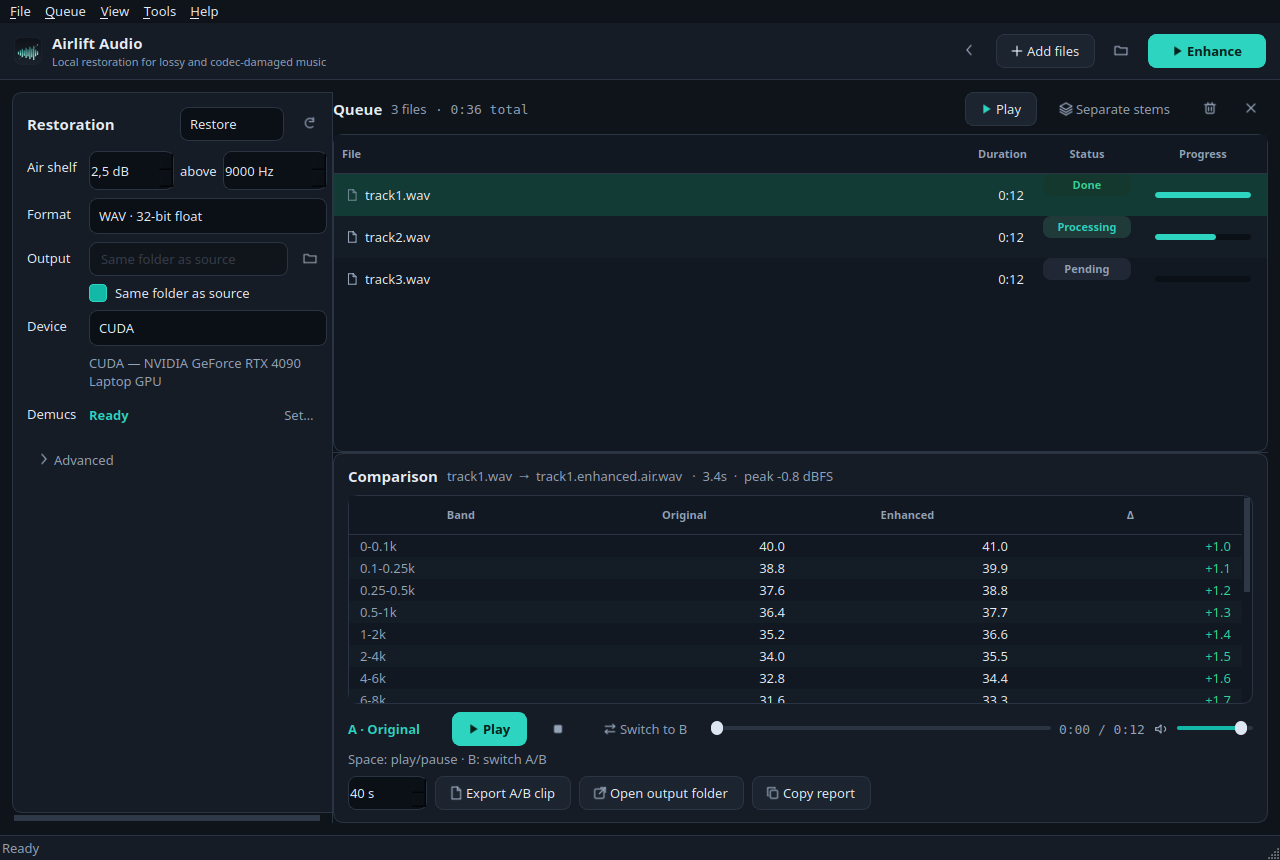
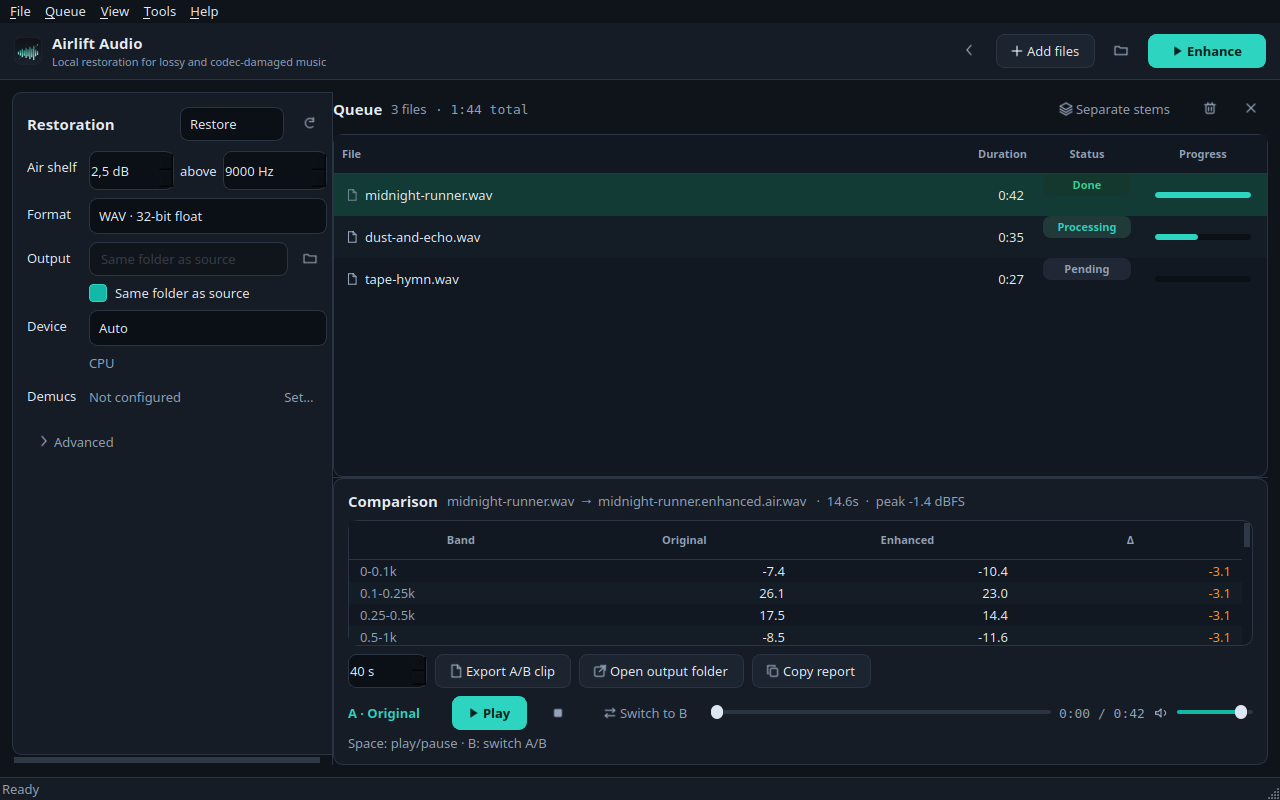
refactor: one always-visible transport, rendered README screenshots
The ABPlayer now lives outside the detail stack, so selecting a pending row
keeps play/pause, stop, the seek bar and volume on screen instead of hiding
the whole transport behind the empty state. The queue-header Play button is
removed: Space, the row context menu and Queue -> Play all drive that single
player, so there is one play button and one seek bar for every file.

docs/screenshot.png is regenerated and docs/screenshot-transport.png added
with scripts/make_screenshots.py, which renders MainWindow headless (Qt
offscreen platform) from synthetic queue data and loads no model weights.

diff --git a/airlift/ui/main_window.py b/airlift/ui/main_window.py
@@ -455,12 +455,6 @@ class MainWindow(QMainWindow):
         header.addWidget(self.duration_label)
         header.addStretch(1)
 
-        self.play_btn = QPushButton("Play")
-        self.play_btn.setIcon(icon("play", ACCENT))
-        self.play_btn.setToolTip("Play / pause the selected file")
-        self.play_btn.clicked.connect(self.toggle_play_selected)
-        header.addWidget(self.play_btn)
-
         self.separate_btn = QPushButton("Separate stems")
         self.separate_btn.setProperty("variant", "ghost")
         self.separate_btn.setIcon(icon("layers"))
@@ -579,7 +573,7 @@ class MainWindow(QMainWindow):
         layout.addLayout(header)
 
         self.detail_stack = QStackedWidget()
-        empty = QLabel("Select a finished file to inspect its bands.")
+        empty = QLabel("Select any file to preview; finished files also show band details.")
         empty.setProperty("role", "muted")
         empty.setAlignment(Qt.AlignCenter)
         self.detail_stack.addWidget(empty)
@@ -609,12 +603,6 @@ class MainWindow(QMainWindow):
             item.setForeground(QColor(MUTED))
             self.band_table.setItem(row, 0, item)
         content_layout.addWidget(self.band_table, 1)
-
-        self.player = ABPlayer()
-        self.player.playing_changed.connect(self._on_playing_changed)
-        self.player.stopped.connect(self._on_player_stopped)
-        self.player.source_changed.connect(self._on_player_source_changed)
-        content_layout.addWidget(self.player)
 
         buttons = QHBoxLayout()
         buttons.setSpacing(8)
@@ -648,6 +636,14 @@ class MainWindow(QMainWindow):
         self.detail_stack.addWidget(content)
         self.detail_stack.setCurrentIndex(0)
         layout.addWidget(self.detail_stack, 1)
+
+        # One transport for every file: keep it outside the detail stack so
+        # previewing a pending item still exposes play/pause, seek and volume.
+        self.player = ABPlayer()
+        self.player.playing_changed.connect(self._on_playing_changed)
+        self.player.stopped.connect(self._on_player_stopped)
+        self.player.source_changed.connect(self._on_player_source_changed)
+        layout.addWidget(self.player)
         return panel
 
     def _build_menu(self) -> None:
@@ -1035,7 +1031,7 @@ class MainWindow(QMainWindow):
         self.duration_label.setText(f"· {_fmt_duration(total)} total" if total else "")
         self.queue_stack.setCurrentWidget(self.table if count else self.empty_state)
         self._sync_actions()
-        self._update_play_button()
+        self._update_play_action()
 
     def _sync_actions(self) -> None:
         has_jobs = bool(self.jobs)
@@ -1070,14 +1066,13 @@ class MainWindow(QMainWindow):
         self.enhance_btn.setEnabled(enabled)
         self.cancel_btn.setVisible(running)
         self.cancel_btn.setEnabled(running)
-        self.play_btn.setEnabled(has_current and MULTIMEDIA)
         self.separate_btn.setEnabled(enabled)
         self.remove_btn.setEnabled(enabled)
         self.clear_btn.setEnabled(enabled)
         self.settings_panel.setEnabled(not running)
         self.reset_btn.setEnabled(not running)
 
-    def _update_play_button(self) -> None:
+    def _update_play_action(self) -> None:
         row = self.table.currentRow()
         has_current = 0 <= row < len(self.jobs)
         current_key = str(self.jobs[row]) if has_current else None
@@ -1085,10 +1080,6 @@ class MainWindow(QMainWindow):
             current_key
             and current_key == self._playing_path
             and self.player.is_playing()
-        )
-        self.play_btn.setText("Pause" if playing else "Play")
-        self.play_btn.setIcon(
-            icon("pause", ACCENT) if playing else icon("play", ACCENT)
         )
         self.act_play.setText("Pause selected" if playing else "Play / pause selected")
 
@@ -1173,21 +1164,17 @@ class MainWindow(QMainWindow):
 
         if key == self._playing_path:
             self.player.toggle_play()
-            self._update_play_button()
+            self._update_play_action()
             return
 
         if self.player.is_playing() or self.player.has_media():
             self.player.stop()
         self._playing_path = key
         self._set_playing_row(row)
-        result = self.results.get(key)
-        if result is not None:
-            self._show_detail(row)
-        else:
-            self.player.set_sources(path, None)
+        self._show_detail(row)
         self.player.play()
         self._update_playback_status()
-        self._update_play_button()
+        self._update_play_action()
 
     def stop_playback(self) -> None:
         self.player.stop()
@@ -1198,7 +1185,7 @@ class MainWindow(QMainWindow):
             if 0 <= row < len(self.jobs):
                 self._playing_path = str(self.jobs[row])
                 self._set_playing_row(row)
-        self._update_play_button()
+        self._update_play_action()
         if self.player.is_playing():
             self._update_playback_status()
         elif (
@@ -1216,7 +1203,7 @@ class MainWindow(QMainWindow):
         self._playing_path = None
         if not self._running:
             self.status_label.setText("Ready")
-        self._update_play_button()
+        self._update_play_action()
 
     def _on_player_source_changed(self, _source: str) -> None:
         if self._playing_path:
@@ -1234,7 +1221,7 @@ class MainWindow(QMainWindow):
             self._show_detail(row)
         else:
             self._clear_detail()
-        self._update_play_button()
+        self._update_play_action()
         self._sync_actions()
 
     def remove_selected(self) -> None:

diff --git a/scripts/make_screenshots.py b/scripts/make_screenshots.py
@@ -1,0 +1,168 @@
+#!/usr/bin/env python3
+"""Render the README screenshots headlessly with deterministic demo data.
+
+    python scripts/make_screenshots.py [--out docs]
+
+Qt runs on its offscreen platform, so no display is needed. Queue rows, band
+levels and peaks are synthesized — nothing here loads the Apollo model.
+"""
+
+from __future__ import annotations
+
+import argparse
+import os
+import tempfile
+from pathlib import Path
+
+import numpy as np
+
+ROOT = Path(__file__).resolve().parent.parent
+FILES = {
+    "midnight-runner.wav": 42.0,
+    "dust-and-echo.wav": 35.0,
+    "tape-hymn.wav": 27.0,
+}
+
+
+def _demo_audio(seconds: float, seed: int, *, restored: bool) -> np.ndarray:
+    """A harmonic tone cluster with a lossy top end; `restored` brings it back."""
+    from airlift.core.audio import SAMPLE_RATE, apply_shelf
+
+    rng = np.random.default_rng(seed)
+    n = int(seconds * SAMPLE_RATE)
+    t = np.arange(n) / SAMPLE_RATE
+    mono = np.zeros(n, dtype=np.float64)
+    for harmonic, gain in enumerate((0.22, 0.13, 0.08, 0.05), start=1):
+        mono += gain * np.sin(2 * np.pi * 110.0 * harmonic * t + seed)
+    noise = rng.normal(0, 0.03, (n, 2))
+    stereo = np.stack([mono, mono * 0.9], axis=1).astype(np.float32) + noise.astype(
+        np.float32
+    )
+
+    cutoff = 16_000 if restored else 5_500
+    spectrum = np.fft.rfft(stereo, axis=0)
+    freqs = np.fft.rfftfreq(n, 1 / SAMPLE_RATE)
+    rolloff = 1.0 / (1.0 + (freqs / cutoff) ** 4)
+    stereo = np.fft.irfft(spectrum * rolloff[:, None], n=n, axis=0).astype(np.float32)
+    if restored:
+        stereo = apply_shelf(stereo, 9_000, 2.5).astype(np.float32)
+
+    peak = float(np.max(np.abs(stereo))) or 1.0
+    return (stereo / peak * 0.85).astype(np.float32)
+
+
+def _write(path: Path, audio: np.ndarray) -> Path:
+    import soundfile as sf
+
+    from airlift.core.audio import SAMPLE_RATE
+
+    path.parent.mkdir(parents=True, exist_ok=True)
+    sf.write(path, audio, SAMPLE_RATE, subtype="PCM_16")
+    return path
+
+
+def _fill_queue(window, demo_dir: Path) -> None:
+    """Queue the demo files and fake one finished job so the bands render."""
+    from airlift.core.audio import band_levels, peak_dbfs, rms_dbfs
+    from airlift.core.pipeline import EnhanceResult
+
+    window._add_paths([demo_dir / name for name in FILES])
+    window._set_status(1, "Processing", "Restoring · 45%")
+    bar = window._row_progress(1)
+    if bar:
+        bar.setValue(45)
+
+    source = demo_dir / next(iter(FILES))
+    enhanced = _demo_audio(FILES[source.name], 1, restored=True)
+    output = _write(demo_dir / f"{source.stem}.enhanced.air.wav", enhanced)
+    window.results[str(source)] = EnhanceResult(
+        source=source,
+        output=output,
+        duration=FILES[source.name],
+        source_sample_rate=44_100,
+        device="cpu",
+        before=band_levels(_demo_audio(FILES[source.name], 1, restored=False)),
+        after=band_levels(enhanced),
+        peak=peak_dbfs(enhanced),
+        rms=rms_dbfs(enhanced),
+        clipped=0,
+        elapsed=14.6,
+    )
+    window._set_status(0, "Done", str(output))
+    done_bar = window._row_progress(0)
+    if done_bar:
+        done_bar.setValue(100)
+    window._update_queue_ui()
+
+
+def _spin(app, milliseconds: int) -> None:
+    """Pump the event loop so media metadata reaches the transport widgets."""
+    from PySide6.QtTest import QTest
+
+    for _ in range(milliseconds // 50):
+        QTest.qWait(50)
+        app.processEvents()
+
+
+def main() -> int:
+    parser = argparse.ArgumentParser(description=__doc__)
+    parser.add_argument("--out", default=str(ROOT / "docs"), help="output folder")
+    args = parser.parse_args()
+
+    os.environ.setdefault("QT_QPA_PLATFORM", "offscreen")
+    # Keep the throwaway QSettings away from the developer's real config.
+    os.environ["XDG_CONFIG_HOME"] = tempfile.mkdtemp(prefix="airlift-shot-")
+
+    from PySide6.QtWidgets import QApplication
+
+    from airlift import APP_NAME, ORG_NAME
+    from airlift.ui.main_window import MainWindow
+    from airlift.ui.theme import apply_theme
+
+    demo_dir = Path(tempfile.mkdtemp(prefix="airlift-demo-"))
+    for seed, (name, seconds) in enumerate(FILES.items(), start=1):
+        _write(demo_dir / name, _demo_audio(seconds, seed, restored=False))
+
+    app = QApplication([])
+    app.setApplicationName(APP_NAME)
+    app.setOrganizationName(ORG_NAME)
+    apply_theme(app)
+
+    window = MainWindow()
+    window.resize(1280, 800)
+    window.show()
+    app.processEvents()
+    _fill_queue(window, demo_dir)
+
+    out = Path(args.out)
+    out.mkdir(parents=True, exist_ok=True)
+
+    def report(label: str) -> None:
+        player = window.player
+        print(
+            f"  {label}: {player.badge.text()} {player.time_label.text()} · "
+            f"{player.status.text()} · play={player.play_button.isEnabled()} "
+            f"seek={player.slider.isVisible()}"
+        )
+
+    window.table.selectRow(0)
+    window._show_detail(0)
+    _spin(app, 900)
+    report("enhanced row")
+    main_shot = out / "screenshot.png"
+    window.grab().save(str(main_shot))
+
+    # One transport for every row — this is the state that used to hide it.
+    window.table.selectRow(2)
+    _spin(app, 900)
+    report("pending row")
+    transport_shot = out / "screenshot-transport.png"
+    window.grab().save(str(transport_shot))
+
+    print(f"wrote {main_shot}")
+    print(f"wrote {transport_shot}")
+    return 0
+
+
+if __name__ == "__main__":
+    raise SystemExit(main())

diff --git a/README.md b/README.md
@@ -27,9 +27,10 @@ hallucinated edges of a pure super-resolution model.
   compensates for Apollo's measurable treble tilt.
 - **Batch queue**: add files or a whole folder, multi-select, retry failed
   items, clear completed, process sequentially and cancel any time.
-- **Transport controls**: Play/Pause/Stop in the queue and the comparison
-  panel; double-click a row or press Space to preview. Finished files play
-  the enhanced version, pending files play the original.
+- **Transport controls**: one play/pause, stop and seek bar under the
+  comparison panel. The same controls follow whichever row is selected, so a
+  pending file previews before it is enhanced; finished files add the A/B
+  switch. Double-click a row or press Space.
 - **A/B listening**: switch between original and enhanced at the same
   position, with loudness-matched clip export and the band-delta table.
 - **Studio-style UI**: settings rail with presets, status chips, per-row
@@ -132,9 +133,11 @@ next to the source.
 
 The left rail holds the restoration settings, presets and advanced chunking
 options. The queue supports multi-select, a context menu, retry failed and
-clear completed. **Play** previews the selected file, **Separate stems**
-opens the Demucs dialog, and the comparison panel appears once a file has
-been enhanced.
+clear completed. One transport under the comparison panel previews whatever
+row is selected: pending rows play the original, enhanced rows get the A/B
+switch and the band-delta table. **Separate stems** opens the Demucs dialog.
+
+![Transport on a pending row](docs/screenshot-transport.png)
 
 **Tools → Separate stems** runs Demucs on the selected file (or the whole
 queue) and writes `<name>.vocals.wav` plus `<name>.instrumental.wav`; tick
@@ -184,11 +187,11 @@ airlift/
   ui/          PySide6 window, A/B player, batch worker, theme
   third_party/ Apollo model code (unmodified, CC BY-SA 4.0)
 packaging/     PyInstaller spec + per-OS installer scripts
-scripts/       icon generation
+scripts/       icon and screenshot generation
 tests/         core + CLI tests
 
-OWL/ — documentation and specifications live in docs/; screenshots in
-docs/screenshot.png
+docs/ — the screenshots are rendered from demo data with
+`python scripts/make_screenshots.py` (headless, no model weights needed).
 ```
 
 ## Documentation
